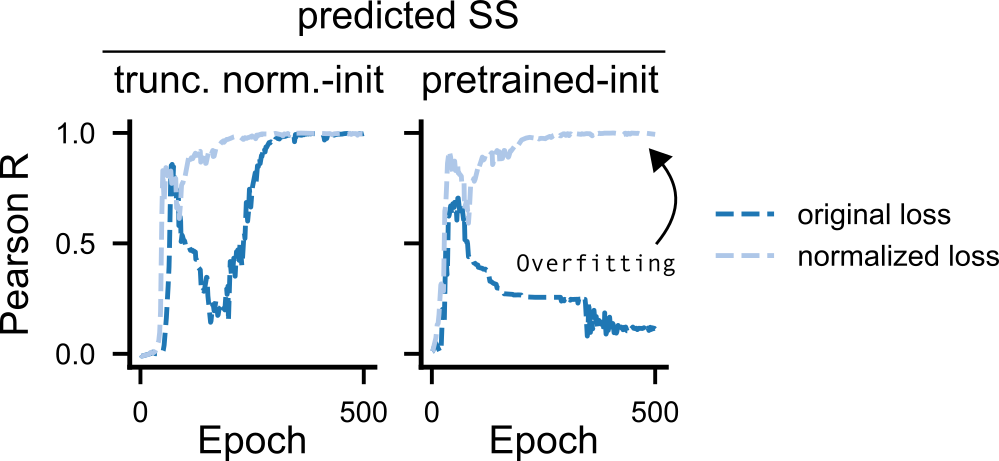
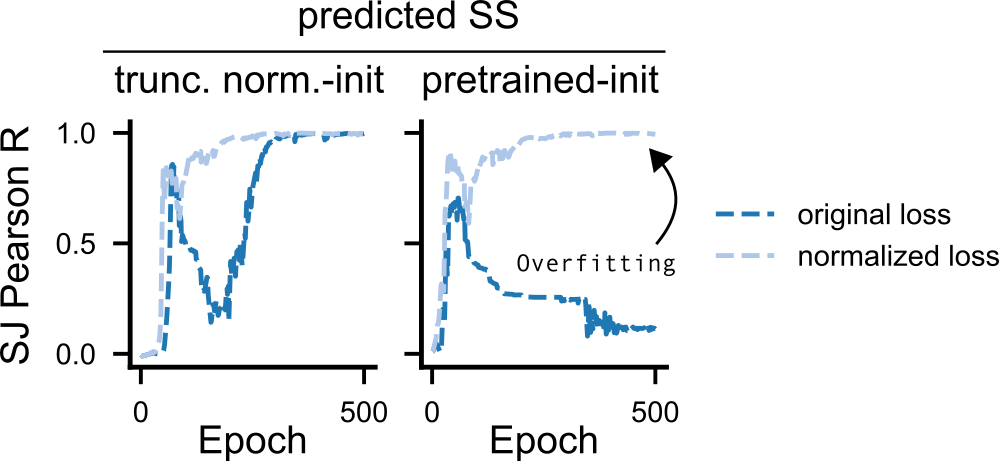
finished first version of blog post

diff --git a/content/blogs/2026-009/index.md b/content/blogs/2026-009/index.md
@@ -45,17 +45,13 @@ revision_history:
 ---
 
 {{< summary >}}
-DeepMind has released [AlphaGenome](https://deepmind.google/discover/blog/alphagenome-a-foundation-model-for-genome-biology/)’s code and model weights, along with examples for fine-tuning on bigwig-based modalities such as RNA sequencing (RNA-seq) coverage tracks.
+DeepMind has released [AlphaGenome](https://deepmind.google/discover/blog/alphagenome-a-foundation-model-for-genome-biology/)’s code and model weights, and the community has since developed [alphagenome_ft](https://github.com/genomicsxai/alphagenome_ft) and [alphagenome-pytorch](https://github.com/genomicsxai/alphagenome-pytorch) to enable seamless fine-tuning in both JAX and PyTorch. These implementations support bigwig-based modalities such as RNA sequencing (RNA-seq) coverage tracks, but other RNA-seq-derived outputs, including splice site probabilities, splice site usage, and splice junctions, require additional work, from data preprocessing and loading to validating fine-tuning on unseen samples. What initially seemed like a straightforward extension became a useful exercise in understanding how large genomic models learn and how to debug new output heads.
 
-Other RNA-seq-derived outputs, including splice site probabilities, splice site usage, and splice junctions, require additional implementation, from data preprocessing and loading to testing fine-tuning on unseen samples. What initially seemed like a straightforward extension became a useful exercise in understanding how large genomic models learn and how to debug new output heads.
+{{< figure src="alphagenome_rna_heads.png" width="500" caption="Overview of AlphaGenome's splicing heads." >}}
 
 In this post, we share that development process: preprocessing the data, building loaders, running sanity checks, and overfitting a single interval, including the bugs we found along the way and how we fixed them.
 
-For this fine-tuning example, we chose two RNA-seq samples from López-Oreja (2023): one carrying the SF3B1 K700E cancer driver mutation and one without it. This mutation is known to promote the recognition of cryptic splice sites, so we expected it to affect the RNA-seq modalities considered here. In this blogpost we only use these data for code development purposes of multimodal learning, but we will delve into the sequence determinants of this misregulated modulation in the next blogpost on this topic.
-
-![Overview of AlphaGenome's splicing heads](alphagenome_rna_heads.png "width=800")
-
-All code, model adaptations, and pipelines used for this blog post are available.
+All code, model adaptations, and pipelines used for this blog post are [available](https://github.com/MiqG/alphagenome_finetuning_rna/tree/v1.0.0).
 
 {{< /summary >}}
 
@@ -63,22 +59,24 @@ All code, model adaptations, and pipelines used for this blog post are available
 
 ## From raw data to preprocessed training tracks
 
-AlphaGenome's preprocessing code is not publicly available, though the key steps are described in the paper's methods. To reproduce the pipeline as closely as possible, we wrote standardized scripts that derive all four training tracks from a single STAR RNA-seq alignment BAM file. Reads are aligned with STAR following the AlphaGenome paper's alignment settings, retaining only uniquely mapped reads on canonical chromosomes.
+For this fine-tuning example, we chose two RNA-seq samples from [López-Oreja (2023)](https://pubmed.ncbi.nlm.nih.gov/37562845/): one carrying the SF3B1 K700E cancer driver mutation and one without it. This mutation is known to promote the recognition of cryptic splice sites, so we expected it to affect the RNA-seq modalities considered here. In this blogpost we only use these data for code development purposes of multimodal learning, but we will delve into the sequence determinants of this misregulated modulation in the next blogpost on this topic.
 
-- **Per-base RNA-seq coverage** (stranded or unstranded) is computed using [deepTools']() `bamCoverage`. Output: bigwig files.
+AlphaGenome's data preprocessing code is not publicly available, though the key steps are described in the paper's methods. To reproduce the pipeline as closely as possible, we wrote standardized scripts that derive all four training tracks from a single STAR RNA-seq alignment BAM file. Reads are aligned with STAR following the AlphaGenome paper's alignment settings, retaining only uniquely mapped reads on canonical chromosomes.
+
+- **Per-base RNA-seq coverage** (stranded or unstranded) is computed using `deepTools`' [`bamCoverage`](https://deeptools.readthedocs.io/en/develop/content/tools/bamCoverage.html). Output: bigwig files.
 - **Splice site classes** are derived on the fly during data loading from the union of splice sites present in the splice site usage files, so no separate file is needed.
-- **Splice site usage** is computed from the BAM using our custom script `compute_ssu.py`, equivalent to [`SpliSER`](). For each splice site supported by at least one junction, usage is estimated as the fraction of reads supporting that site relative to reads that skip it. Output: zstd-compressed parquet files.
-- **Splice junction counts** are available directly from STAR at alignment time, or can be extracted post-hoc from the BAM using our custom script `get_star_junctions.py`. Output: tab-separated files.
+- **Splice site usage** is computed from the BAM using our custom script [`compute_ssu.py`](https://github.com/MiqG/alphagenome-pytorch/blob/splice-finetuning/scripts/compute_ssu.py), equivalent to [`SpliSER`](https://github.com/CraigIDent/SpliSER/tree/speedups). For each splice site supported by at least one junction, usage is estimated as the fraction of reads supporting that site relative to reads that skip it. Output: zstd-compressed parquet files.
+- **Splice junction counts** are available directly from STAR at alignment time, or can be extracted post-hoc from the BAM using our custom script [`get_star_junctions.py`](https://github.com/MiqG/alphagenome-pytorch/blob/splice-finetuning/scripts/get_star_junctions.py). Output: tab-separated files.
 
-![Data preprocessing workflow](data_prep_workflow.png "width=800")
+{{< figure src="data_prep_workflow.png" width="500" caption="Data preprocessing workflow." >}}
 
 To make sure our custom implementations to compute splice junction counts and splice site usage matched how STAR and SpliSER calculate them respectively, we ran a comparison on chromosome 1 on our samples.
 
 In both cases we observe a Pearson correlation of 1 (for splice junction counts from uniquely mapped reads and for splice site usage), confirming the implementations are correct.
 
-Both implementations were also highly efficient in runtime, with `get_star_junctions.py` requiring ~10s and ~150 MB per sample, and `compute_ssu.py` requiring ~20s and ~200 MB per sample compared to SpliSER's ~600s and ~100 MB.
+Both implementations were also highly efficient in runtime, with [`get_star_junctions.py`](https://github.com/MiqG/alphagenome-pytorch/blob/splice-finetuning/scripts/get_star_junctions.py) requiring ~10s and ~150 MB per sample, and [`compute_ssu.py`](https://github.com/MiqG/alphagenome-pytorch/blob/splice-finetuning/scripts/compute_ssu.py) requiring ~20s and ~200 MB per sample compared to SpliSER's ~600s and ~100 MB.
 
-![Benchmark splice junction counting and computing splice site usage](benchmark_juncs_and_ssu.png "width=450")
+{{< figure src="benchmark_juncs_and_ssu.png" width="350" caption="Benchmark of splice junction counting and splice site usage computation." >}}
 
 ## Data loading and on-the-fly normalization
 
@@ -92,64 +90,82 @@ All four tracks are loaded jointly for each genomic interval and normalized on t
 
 **Splice junction counts** from STAR are CPM-normalized using the total mapped reads per sample, clipped at the 99.99th percentile, and then mean-scaled so that the typical non-zero value is close to 1. Junctions are assembled into a donor × acceptor count matrix, with forward and reverse strand channels interleaved across samples.
 
-![Normalizing training data on-the-fly](data_loading_normalization.png "width=600")
+{{< figure src="data_loading_normalization.png" width="600" caption="Normalizing training data on the fly." >}}
 
 ## First time never works
 
-As a first sanity check, we verified that the model could overfit a single genomic interval using linear probing (freezing the backbone and training only the new heads). A model with enough capacity should memorize a single batch; failure to do so points to a bug rather than a generalization problem. To make the test representative, we selected an interval with median splice junction density among all training intervals (see [this]() notebook for the selection details).
+As a first sanity check, we verified that the model could overfit a single genomic interval using linear probing (freezing the backbone and training only the new heads). A model with enough capacity should memorize a single batch; failure to do so points to a bug rather than a generalization problem. To make the test representative, we selected an interval with median splice junction density among all training intervals (see [this](https://github.com/MiqG/alphagenome_finetuning_rna/blob/blog-dev/figures/overfitting_interval_selection.ipynb) notebook for the selection details).
 
 The test was useful precisely because it failed. The splice site probability heads did not overfit, and the splice junction heads did not learn at all. The next two sections trace what was wrong with each and how we fixed it.
 
-![First attempt to overfit a single interval](first_attempt.png "width=900")
+{{< figure src="first_attempt.png" width="900" caption="First attempt to overfit a single interval." >}}
 
 ## Initializing splice site heads with pretrained weights facilitates single-batch overfitting
 
 The splice site classification head struggled to overfit when initialized randomly. This is not surprising: the purpose of fine-tuning AlphaGenome is not to re-learn the general splicing code from scratch. The splice site classification head captures a property shared across all samples, where donor and acceptor sites sit on each strand, while the splice site usage and junction heads carry the sample-specific signal. It therefore makes sense to start from the pretrained weights for this head and let the sample-specific heads adapt.
 
-We explored three factors that could affect overfitting on the single interval: (1) initializing the splice site classification head from pretrained rather than random weights (see [this]() notebook for how we select which pretrained tracks to use for initialization), (2) augmenting the interval's splice sites with all annotated sites from the GTF (to reduce label sparsity, since AlphaGenome was pretrained on many more samples and thus more splice sites), and (3) segmenting the loss computation to match the 8-segment sequence parallelism used during AlphaGenome pretraining. We implemented support for all three options via `finetune.py` flags: `--pretrained-head-samples` to initialize specific head weights from a pretrained track (e.g. `splice_site:0`), `--gtf` to supply a GTF or parquet file of canonical splice sites, and `--num-segments` to control how many segments the sequence is split into for loss computation (applies to all modalities, not just splicing).
+We explored three factors that could affect overfitting on the single interval: (1) initializing the splice site classification head from pretrained rather than random weights (see [this](https://github.com/MiqG/alphagenome_finetuning_rna/blob/blog-dev/figures/track_indices.ipynb) notebook for how we select which pretrained tracks to use for initialization), (2) augmenting the interval's splice sites with all annotated sites from the GTF (to reduce label sparsity, since AlphaGenome was pretrained on many more samples and thus more splice sites), and (3) segmenting the loss computation to match the 8-segment sequence parallelism used during AlphaGenome pretraining. We implemented support for all three options via `finetune.py` flags: `--pretrained-head-samples` to initialize specific head weights from a pretrained track (e.g. `splice_site:0`), `--gtf` to supply a GTF or parquet file of canonical splice sites, and `--num-segments` to control how many segments the sequence is split into for loss computation (applies to all modalities, not just splicing).
 
 Initializing from pretrained weights enabled clean overfitting regardless of whether GTF sites or loss segmentation were used. When starting from random weights, loss segmentation had a secondary effect: higher overall loss but faster overfitting, with or without the GTF augmentation.
 
-![Debugging splice site head](debug_splice_head.png "width=900")
+{{< figure src="debug_splice_head.png" width="600" caption="Debugging the splice site head." >}}
 
 ## Why the junction head could not learn
 
-After fixing the loss bugs, the splice junction head still would not learn. Understanding why required looking at how the head works. For each genomic interval, the trunk produces 1 bp resolution embeddings across the full sequence. The junction head extracts embeddings only at the positions of known splice sites (up to 512; padded with -1 if fewer are present). Each extracted embedding is then linearly transformed with a learned per-sample scale and offset before RoPE positional encoding is applied. Junction counts for each donor-acceptor pair are then predicted as the softplus of the inner product between the corresponding donor and acceptor embeddings.
+In our first attempt, the splice junction head would not learn. Understanding why required looking at how the head works. For each genomic interval, the trunk produces 1 bp resolution embeddings across the full sequence. The junction head extracts embeddings only at the positions of known splice sites (up to 512; padded with -1 if fewer are present). Each extracted embedding is then linearly transformed with a learned per-sample scale and offset before RoPE positional encoding is applied. Junction counts for each donor-acceptor pair are then predicted as the softplus of the inner product between the corresponding donor and acceptor embeddings.
 
 Inspecting the pretrained weights revealed the problem: the scale and offset parameters were initialized to zeros. With scale=0 and offset=0, the transformation `scale * x + offset` collapses every embedding to zero before RoPE, blocking any gradient from flowing back through those parameters. The pretrained weights for these parameters follow a truncated normal distribution, not zeros, so a randomly initialized head would be stuck from the very first step.
 
-Cross-referencing with the original JAX implementation and reaching out to the authors (see [GitHub issue]()) confirmed this was a bug also in the original implementation. The fix was to initialize `rope_params` with a truncated normal distribution (std=0.1), controlled via the `--rope-init` flag in `finetune.py` (default: `truncated_normal`; `zeros` is kept only for ablation experiments).
+Cross-referencing with the original JAX implementation and reaching out to the authors (see [GitHub issue](https://github.com/google-deepmind/alphagenome_research/issues/22)) confirmed this was a bug also in the original implementation. The fix was to initialize `rope_params` with a truncated normal distribution (std=0.1), controlled via the `--rope-init` flag in [`finetune.py`](https://github.com/MiqG/alphagenome-pytorch/blob/splice-finetuning/scripts/finetune.py) (default: `truncated_normal`; `zeros` is kept only for ablation experiments).
 
 With the fix in place, the randomly initialized junction head overfits successfully when splice site positions are taken from the target junctions, set via `--junction-position-source annotated` (the default). 
 
-![Debugging splice junction head random initialization](splice_junctions_debug-init.png "width=800")
+{{< figure src="splice_junctions_debug-init.png" width="800" caption="Debugging the splice junction head: random initialization." >}}
 
-Using predicted positions (`--junction-position-source predicted`) exposed a further issue: pretrained-weight initialization collapsed while random initialization still learned. The pretrained head was optimized alongside a dense, tissue-diverse set of splice site positions from pretraining; positions predicted by a freshly fine-tuned splice site head on just two samples are sparser and differently distributed, likely placing it outside its operating range. Looking at the loss values pointed to a related problem — the junction cross-entropy was going negative during training, which would destabilize any head but hit the pretrained one harder.
+Using predicted positions (`--junction-position-source predicted`) exposed a further issue: pretrained-weight initialization collapsed while random initialization still learned. The pretrained head was optimized alongside a dense, tissue-diverse set of splice site positions from pretraining; positions predicted by a freshly fine-tuned splice site head on just two samples are sparser and differently distributed, likely placing it outside its operating range. Looking at the loss values pointed to a related problem: the junction cross-entropy was going negative during training, which would destabilize any head but hit the pretrained one harder.
 
-The root cause is a mismatch between the paper's pseudocode and both the JAX and PyTorch implementations. The supplementary methods define `multinomial_cross_entropy` by normalizing both targets and predictions to ratios before computing the cross-entropy, so `log(p_pred) <= 0` always and the loss is guaranteed non-negative. The JAX implementation instead uses a log-normalizer formulation (`log_normalizer - log_likelihood`), which is mathematically equivalent when junction counts are present but produces a negative contribution when a training window contains annotated splice sites with zero observed counts — common in sparse datasets like SF3B1 RNA-seq, where not every annotated site will have reads in a given sample. The PyTorch port (`--junction-loss original`, the default) inherited this behavior unchanged.
+The root cause seemed to be a mismatch between the paper's pseudocode and both the JAX and PyTorch implementations. The supplementary methods define `multinomial_cross_entropy` by normalizing both targets and predictions to ratios before computing the cross-entropy, so `log(p_pred) <= 0` always and the loss is guaranteed non-negative. The JAX implementation instead uses a log-normalizer formulation (`log_normalizer - log_likelihood`), which is mathematically equivalent when junction counts are present but produces a negative contribution when a training window contains annotated splice sites with zero observed counts; common in sparse datasets like SF3B1 RNA-seq, where not every annotated site will have reads in a given sample. The PyTorch port (`--junction-loss original`, the default) inherited this behavior unchanged.
 
-We opened a GitHub issue with the authors, who confirmed the discrepancy and introduced a ratio-normalized formulation: both targets and predictions are divided by their within-mask sums before computing `-p_true * log(p_pred)`. We ported this as `--junction-loss normalized`. Since `p_pred <= 1`, its log is always non-positive and the loss is always non-negative. With this correction, training is stable, the loss no longer dips below zero on sparse windows, and both random and pretrained-weight initialization can overfit the single interval regardless of whether annotated or predicted splice site positions are used.
+We opened another [GitHub issue](https://github.com/google-deepmind/alphagenome_research/issues/24) with the authors, who confirmed the discrepancy and introduced a ratio-normalized formulation: both targets and predictions are divided by their within-mask sums before computing `-p_true * log(p_pred)`. We ported this as `--junction-loss normalized`. Since `p_pred <= 1`, its log is always non-positive and the loss is always non-negative. With this correction, training is stable, the loss no longer dips below zero on our  window, and both random and pretrained-weight initialization can overfit the single interval regardless of whether annotated or predicted splice site positions are used.
 
-![Debugging splice junction head loss](splice_junctions_debug-loss.png "width=700")
+{{< figure src="splice_junctions_debug-loss.png" width="400" caption="Debugging the splice junction head: loss formulation." >}}
+
+## TL;DR
+
+- Extending AlphaGenome to splicing modalities requires custom preprocessing scripts for splice site usage and splice junction counts, all derivable from a single STAR BAM file.
+- The splice site classification head must be initialized from pretrained weights; random initialization is insufficient to overfit even a single interval.
+- The junction head's `rope_params` were initialized to zeros in both the JAX and PyTorch implementations, preventing any learning; initializing with a truncated normal distribution fixes this.
+- The junction cross-entropy loss can go negative on sparse windows due to a mismatch between the paper's pseudocode and the JAX/PyTorch implementations; a ratio-normalized formulation resolves this and stabilizes training.
+- Single-interval overfitting is an effective development checkpoint: it exposed all three bugs before any full training run.
 
 ## Limitations
 
 All debugging was performed on a single genomic interval with just two RNA-seq samples, so the behavior we observed may not generalize to larger or more diverse training sets. The preprocessing pipeline reproduces the main steps described in the AlphaGenome paper, but since the original code is not public, we cannot guarantee exact parity.
 
+The splicing fine-tuning code currently lives in a dedicated fork of [alphagenome-pytorch](https://github.com/MiqG/alphagenome-pytorch/tree/splice-finetuning) and is pending merge into the main branch. Support in the JAX-based [alphagenome_ft](https://github.com/genomicsxai/alphagenome_ft) will follow once that merge is complete.
+
 This post focuses entirely on getting the implementation correct, not on biological results. We do not report held-out performance or compare model predictions to independent data. Whether the fine-tuned heads generalize to unseen genomic intervals or samples, and whether they capture SF3B1-specific splicing changes, is left for the follow-up post.
 
 ## Conclusion
 
-This process gave us a much better understanding of what it actually takes to fine-tune new transcriptomic heads on AlphaGenome. Extending the model to splicing modalities was not simply a matter of adding data loaders and output layers: label sparsity, head initialization, loss formulation, and the interaction between position sources and weight initialization all turned out to matter.
+This process gave us a much better understanding of what it actually takes to fine-tune new transcriptomic heads on AlphaGenome. Extending the model to splicing modalities was not simply a matter of adding data loaders and output layers (as we hoped): higher label sparsity, head initialization, loss formulation, and the interaction between position sources and weight initialization all turned out to matter.
 
-The most useful strategy was to build confidence at each step before scaling up, from preprocessing validation and target inspection, through single-interval overfitting, to multi-GPU training. Each stage exposed a different class of problem. The single-interval test in particular was worth its weight as the two loss bugs and a zero-initialization bug in the junction head would have been much harder to diagnose in a full training run. We hope that sharing these intermediate failures, alongside the fixes and the flags that control them, makes it easier for others to extend AlphaGenome to new RNA-seq modalities and biological questions. 
+The most useful strategy was to build confidence at each step before scaling up, from preprocessing validation and target inspection to single-interval overfitting. Each stage exposed a different class of problem. The single-interval test in particular was worth its weight as the two loss bugs and a zero-initialization bug in the junction head would have been much harder to diagnose in a full training run. We hope that sharing these intermediate failures, alongside the fixes and the flags that control them, makes it easier for others to extend AlphaGenome to new RNA-seq modalities and biological questions. 
 
-In the end, this project became more than a simple port. It resulted in reusable preprocessing scripts, training pipelines, and a set of practical checks and warnings that we hope make fine-tuning RNA-seq–derived splicing modalities on AlphaGenome more transparent and reproducible. We are especially grateful to the DeepMind developers for openly sharing their code and model weights, and for their responsiveness when we reported bugs and implementation issues; their feedback was instrumental in reaching the conclusions presented here. We hope these efforts help make fine-tuning splicing heads as seamless and accessible as possible for the broader community.
+In the end, this project became more than a simple port. It resulted in reusable preprocessing scripts, training pipelines, and a set of practical checks and warnings that we hope make fine-tuning RNA-seq–derived splicing modalities on AlphaGenome more transparent and reproducible. We are especially grateful to the DeepMind developers for openly sharing their code and model weights, and for the responsiveness of Tom Ward ([`@tomwardio`](https://github.com/tomwardio)) and Vincent Dutordoir ([`@vdutor`](https://github.com/vdutor)) when we reported bugs and implementation issues; their feedback was instrumental in reaching the conclusions presented here. We hope these efforts help make fine-tuning splicing heads as seamless and accessible as possible for the broader community.
 
 ## Reproducibility
 
-The repository [alphagenome_finetuning_rna]() contains all the necessary code, from data downloading to analysis and figures, to reproduce these results.
+The repository [alphagenome_finetuning_rna](https://github.com/MiqG/alphagenome_finetuning_rna/tree/v1.0.0) contains all the necessary code, from data downloading to analysis and figures, to reproduce these results.
+
+## References
+
+1. Avsec, Ž. et al. Advancing regulatory variant effect prediction with AlphaGenome., 649, Nature (2026). https://doi.org/10.1038/s41586-025-10014-0
+2. López-Oreja, I. et al. SF3B1 mutation-mediated sensitization to H3B-8800 splicing inhibitor in chronic lymphocytic leukemia., 6, Life Sciences Alliance (2023). https://doi.org/10.26508/lsa.202301955
+3. Dent, C.I. et al. Quantifying splice-site usage: a simple yet powerful approach to analyze splicing., 3, NAR Genomics and Bioinformatics (2021). https://doi.org/10.1093/nargab/lqab041
+4. Ramírez, F. et al. deepTools2: a next generation web server for deep-sequencing data analysis., 44, Nucleic Acids Research (2016). https://doi.org/10.1093/nar/gkw257
+5. Dobin, A. et al. STAR: ultrafast universal RNA-seq aligner., 29, Bioinformatics (2013). https://doi.org/10.1093/bioinformatics/bts635
 
 ## Acknowledgements
 
-Thanks to the [Genomics x AI](https://genomicsxai.github.io/) community and the Kundaje Lab at Stanford, where the AlphaGenome PyTorch port is developed. We acknowledge the EuroHPC Joint Undertaking for awarding this project access to the EuroHPC supercomputer MareNostrum 5, hosted by the Barcelona Supercomputing Center (Spain) through an EuroHPC Development Access call. We acknowledge support of the Spanish Ministry of Science and Innovation through the Centro de Excelencia Severo Ochoa (CEX2020-001049-S, MCIN/AEI /[phone redacted]/[phone redacted]), and the Generalitat de Catalunya through the CERCA programme, and to the EMBL partnership. We are grateful to the CRG Core Technologies Programme for their support and assistance in this work.
+Thanks to the [Genomics x AI](https://genomicsxai.github.io/) community and the Kundaje Lab at Stanford, where the AlphaGenome PyTorch port is being developed as well. We acknowledge the EuroHPC Joint Undertaking for awarding this project access to the EuroHPC supercomputer MareNostrum 5, hosted by the Barcelona Supercomputing Center (Spain) through an EuroHPC Development Access call. We acknowledge support of the Spanish Ministry of Science and Innovation through the Centro de Excelencia Severo Ochoa (CEX2020-001049-S, MCIN/AEI /[phone redacted]/[phone redacted]), and the Generalitat de Catalunya through the CERCA programme, and to the EMBL partnership. We are grateful to the CRG Core Technologies Programme for their support and assistance in this work.